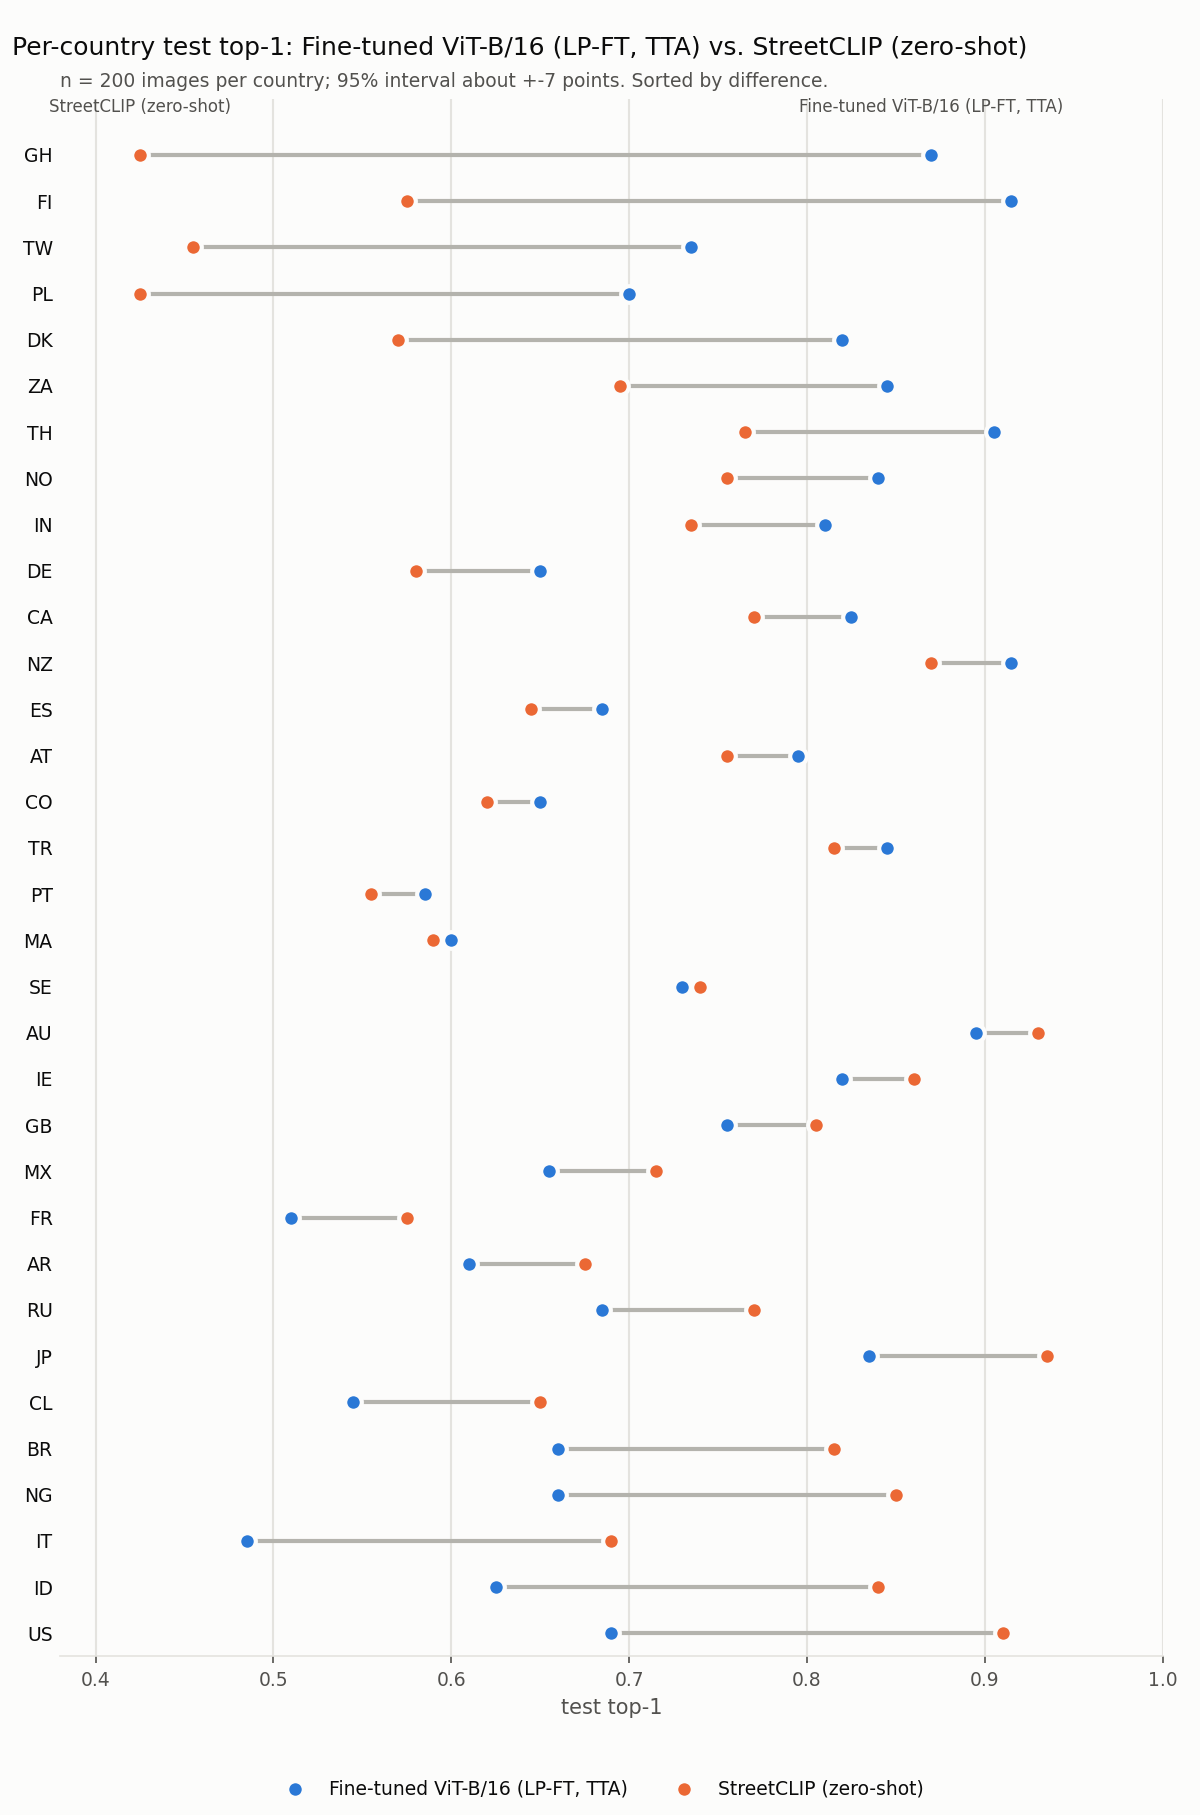
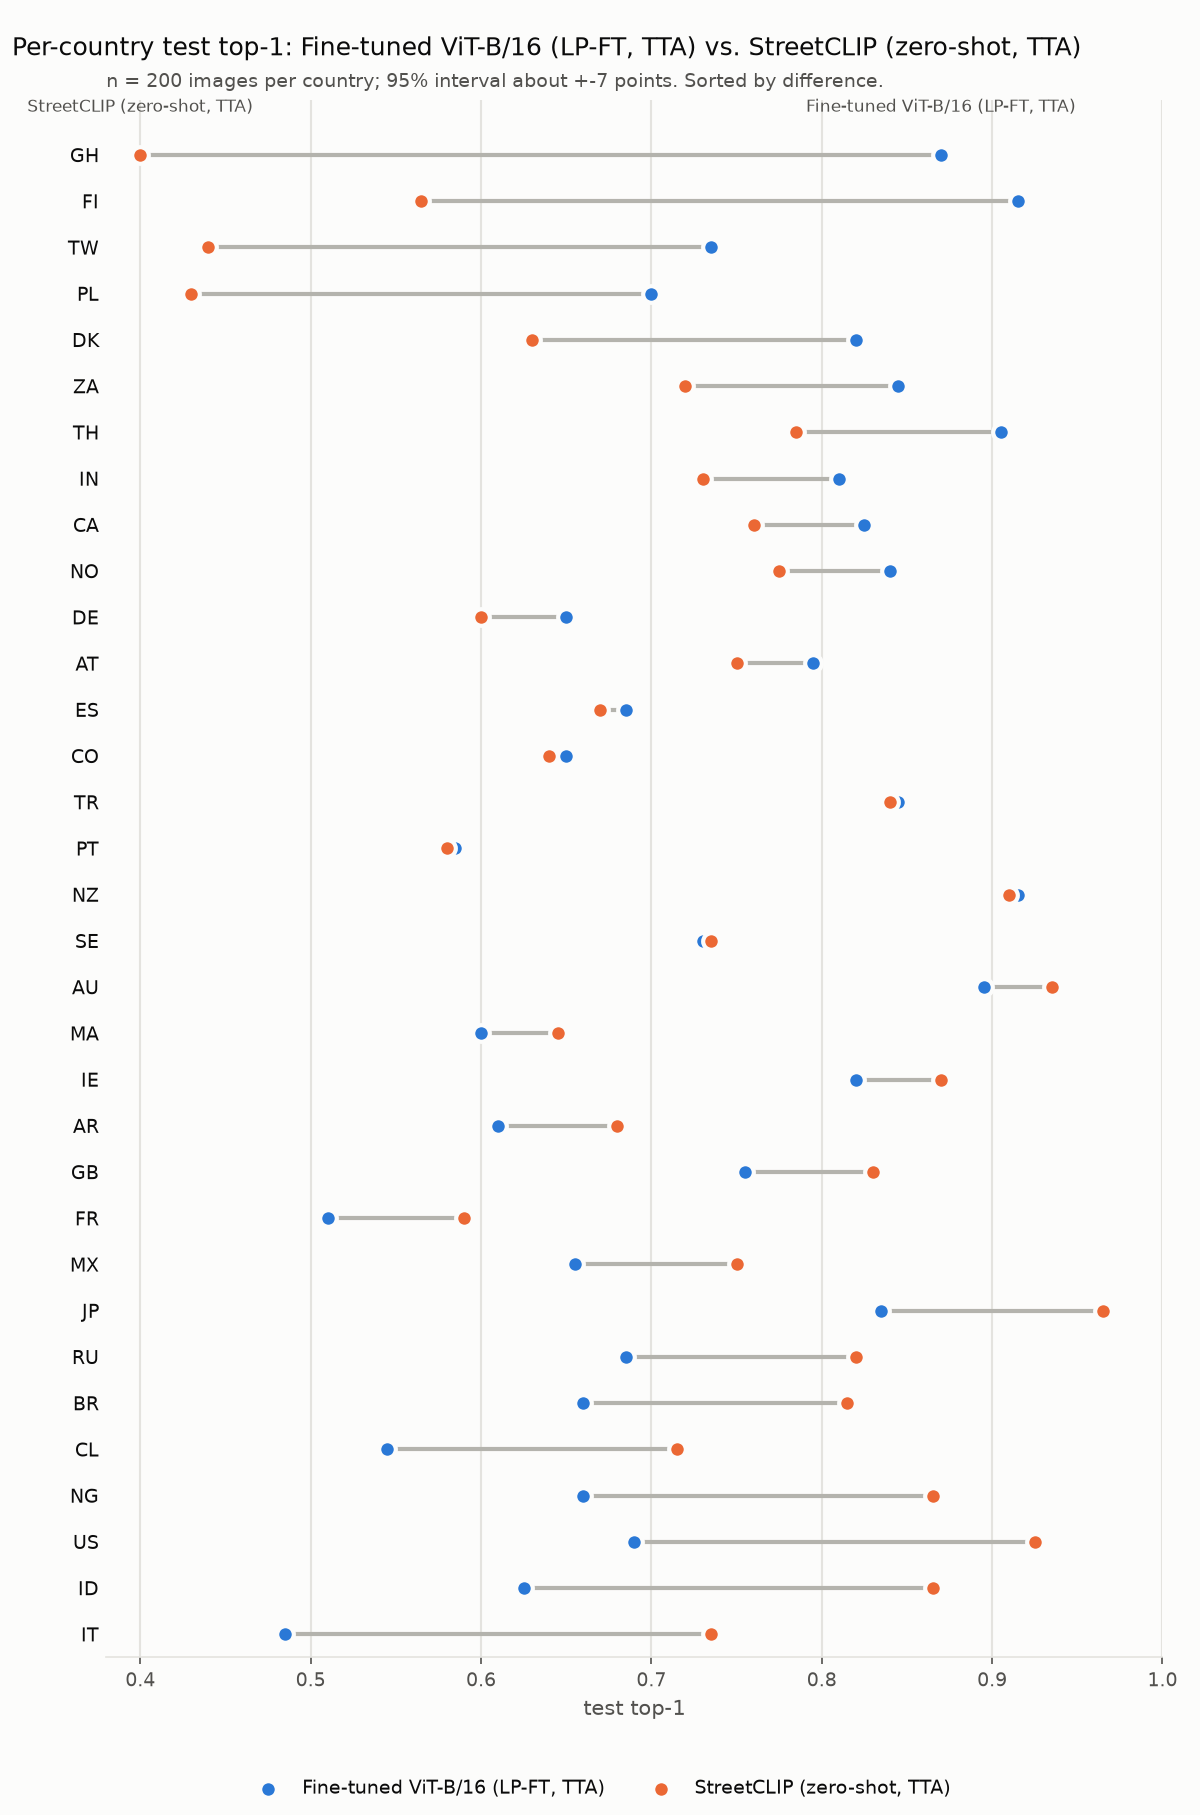
Compare per-country results with TTA on both models; write analysis files with LF

diff --git a/src/geoguessr_ai/analyze.py b/src/geoguessr_ai/analyze.py
@@ -8,6 +8,7 @@ Output under results/analysis/:
   <run>_pairs.csv              directed pairs of interest
   report.md                    readable summary
   per_country_lpft_vs_streetclip.png   dumbbell plot of per-country top-1 for two runs
+                               (default: LP-FT + TTA vs. StreetCLIP zero-shot + TTA)
 
 Usage:
   python -m geoguessr_ai.analyze                       # all runs under results/*/
@@ -46,6 +47,11 @@ def wilson(k: np.ndarray, n: np.ndarray, z: float = 1.96):
         centre = (p + z**2 / (2 * n)) / den
         half = z * np.sqrt(p * (1 - p) / n + z**2 / (4 * n**2)) / den
     return centre - half, centre + half
+
+
+def write_csv(df: pd.DataFrame, path: Path) -> None:
+    """CSV with LF line endings on every OS (pandas defaults to os.linesep, CRLF on Windows)."""
+    df.to_csv(path, index=False, lineterminator="\n")
 
 
 def load_confusion(path: Path) -> pd.DataFrame:
@@ -237,8 +243,8 @@ def analyze_run(path: Path, results: Path, split: str, out: Path, args) -> pd.Da
     pc = per_country(cm, args.attractor_ratio)
     top = confusions(cm).head(args.top)
     pairs = pair_table(cm, PAIR_GROUPS)
-    top.to_csv(out / f"{stem}_top_confusions.csv", index=False)
-    pairs.to_csv(out / f"{stem}_pairs.csv", index=False)
+    write_csv(top, out / f"{stem}_top_confusions.csv")
+    write_csv(pairs, out / f"{stem}_pairs.csv")
     report = build_report(name, pc, top, pairs, args.focus, args.top)
     return pc.assign(run=name), report
 
@@ -254,11 +260,13 @@ def main() -> None:
     ap.add_argument("--focus", nargs="+", default=["FI", "SE"])
     ap.add_argument("--attractor-ratio", type=float, default=1.3,
                     help="threshold on predicted count / true count")
-    ap.add_argument("--plot-runs", nargs=2, default=["clip_vitb16_lpft_tta", "streetclip_zeroshot"],
+    # both runs with the same 3-crop TTA, so the per-country comparison is like for like
+    ap.add_argument("--plot-runs", nargs=2,
+                    default=["clip_vitb16_lpft_tta", "streetclip_zeroshot_tta"],
                     metavar=("A", "B"),
                     help="two run directories (under --results) for the dumbbell plot")
     ap.add_argument("--plot-labels", nargs=2,
-                    default=["Fine-tuned ViT-B/16 (LP-FT, TTA)", "StreetCLIP (zero-shot)"])
+                    default=["Fine-tuned ViT-B/16 (LP-FT, TTA)", "StreetCLIP (zero-shot, TTA)"])
     ap.add_argument("--plot-name", default="per_country_lpft_vs_streetclip.png")
     args = ap.parse_args()
 
@@ -273,8 +281,8 @@ def main() -> None:
         pc, rep = analyze_run(r, args.results, args.split, out, args)
         frames.append(pc)
         reports.append(rep)
-    pd.concat(frames, ignore_index=True).to_csv(out / "precision_recall.csv", index=False)
-    (out / "report.md").write_text("\n".join(reports), encoding="utf-8")
+    write_csv(pd.concat(frames, ignore_index=True), out / "precision_recall.csv")
+    (out / "report.md").write_text("\n".join(reports), encoding="utf-8", newline="\n")
     csvs = [args.results / r / f"{args.split}_per_country.csv" for r in args.plot_runs]
     if all(c.exists() for c in csvs):
         plot_dumbbell(*(pd.read_csv(c) for c in csvs), *args.plot_labels, args.split,

diff --git a/tests/test_analyze.py b/tests/test_analyze.py
@@ -85,3 +85,35 @@ def test_main_writes_dumbbell_only_when_both_runs_exist(tmp_path, monkeypatch):
     _per_country_csv(results / "runB" / "test_per_country.csv", {"A": 0.7, "B": 0.5, "C": 0.9})
     a.main()
     assert (results / "analysis" / "per_country_lpft_vs_streetclip.png").exists()
+
+
+def test_default_plot_compares_both_tta_runs(tmp_path, monkeypatch):
+    """Without --plot-runs the plot is LP-FT + TTA vs. StreetCLIP + TTA (like for like)."""
+    results = tmp_path / "results"
+    png = results / "analysis" / "per_country_lpft_vs_streetclip.png"
+    for run in ("clip_vitb16_lpft_tta", "streetclip_zeroshot", "streetclip_zeroshot_tta"):
+        (results / run).mkdir(parents=True)
+        _cm().to_csv(results / run / "test_confusion.csv")
+    _per_country_csv(results / "clip_vitb16_lpft_tta" / "test_per_country.csv", {"A": 0.8, "B": 0.4})
+    _per_country_csv(results / "streetclip_zeroshot" / "test_per_country.csv", {"A": 0.7, "B": 0.5})
+    monkeypatch.setattr("sys.argv", ["analyze", "--results", str(results)])
+    a.main()
+    assert not png.exists()  # the no-TTA StreetCLIP run alone is not used
+    _per_country_csv(results / "streetclip_zeroshot_tta" / "test_per_country.csv", {"A": 0.6, "B": 0.5})
+    a.main()
+    assert png.exists()
+
+
+def test_text_outputs_use_lf_line_endings(tmp_path, monkeypatch):
+    """Same bytes on every OS (on Windows pandas/write_text would otherwise write CRLF)."""
+    results = tmp_path / "results"
+    (results / "runA").mkdir(parents=True)
+    _cm().to_csv(results / "runA" / "test_confusion.csv")
+    monkeypatch.setattr("sys.argv", ["analyze", "--results", str(results)])
+    a.main()
+    files = [p for p in (results / "analysis").iterdir() if p.suffix in {".csv", ".md"}]
+    assert {p.name for p in files} >= {"report.md", "precision_recall.csv", "runA_pairs.csv",
+                                       "runA_top_confusions.csv"}
+    for p in files:
+        data = p.read_bytes()
+        assert b"\n" in data and b"\r" not in data, p.name

diff --git a/README.md b/README.md
@@ -9,9 +9,12 @@ comparing zero-shot CLIP, a linear probe and full fine-tuning (LP-FT).
 Main result: CLIP ViT-B/16 with LP-FT reaches 0.708 top-1 on the test split with a single center crop,
 24.0 points above the zero-shot accuracy of the same backbone, and on par with StreetCLIP zero-shot
 (0.708; ViT-L/14, 336 px). Test-time augmentation (TTA, average over 3 crops) was adopted because it
-improved the val split (0.787 to 0.808); with it the model reaches 0.732 top-1 on the test split, 2.4 points
-above StreetCLIP zero-shot. That comparison is not fully fair, because StreetCLIP was evaluated without
-TTA, and StreetCLIP stays ahead on top-5 (0.958 vs. 0.935).
+improved the val split (0.787 to 0.808). With the same TTA on both models, LP-FT reaches 0.732 test top-1
+and StreetCLIP 0.726: a 0.6-point difference, inside the noise (the 95% interval of each test top-1 is
+about +-1.1 points), so the two are on par in top-1. StreetCLIP is ahead on top-5 (0.963 vs. 0.935).
+
+- **Live demo (runs in your browser):** https://huggingface.co/spaces/Daggerabuse/geoguessr-ai
+- **Model:** https://huggingface.co/Daggerabuse/geoguessr-clip-vitb16
 
 ## Why
 
@@ -27,6 +30,7 @@ is about 0.03 top-1. All numbers are read from `results/*/{test,val}_metrics.jso
 | CLIP ViT-B/16, zero-shot | 0.468 | 0.830 | 0.485 |
 | CLIP ViT-L/14, zero-shot | 0.544 | 0.903 | 0.598 |
 | StreetCLIP, zero-shot (ViT-L/14, 336 px) | 0.708 | 0.958 | 0.723 |
+| StreetCLIP, zero-shot + TTA (3 crops) | 0.726 | 0.963 | 0.752 |
 | CLIP ViT-B/16, linear probe | 0.600 | 0.900 | 0.708 |
 | CLIP ViT-B/16, LP-FT (fine-tuned) | 0.708 | 0.925 | 0.787 |
 | CLIP ViT-B/16, LP-FT + TTA (3 crops) | 0.732 | 0.935 | 0.808 |
@@ -37,9 +41,10 @@ treated as on par.
 
 TTA (average over the left, center and right crops) was chosen based on the val split: for the same
 checkpoint, evaluated with `--eval-only --tta` and no retraining, val top-1 went from 0.787 to 0.808.
-On test, top-1 is 0.732 with TTA versus 0.708 without. The TTA model is 2.4 points ahead of StreetCLIP
-zero-shot in test top-1 but behind it in top-5 (0.935 vs. 0.958). StreetCLIP was not evaluated with TTA,
-so this comparison is not fully fair.
+On test, top-1 is 0.732 with TTA versus 0.708 without. StreetCLIP was evaluated with the same 3-crop
+TTA (logits averaged): test top-1 goes from 0.708 to 0.726. With TTA on both sides, LP-FT is 0.6 points
+ahead in test top-1, while the 95% (Wilson) interval of each test top-1 is about +-1.1 points
+(n = 6600), so the two are treated as on par. In top-5, StreetCLIP is ahead (0.963 vs. 0.935).
 
 ## Findings
 
@@ -53,16 +58,17 @@ so only differences larger than 10 points are discussed below.
   test top-1 is 0.732 with TTA versus 0.708 without. It changes the confusion picture only slightly:
   SE to FI is 20 (19 without TTA), CA to US 7 (7), NG to GH 32 (32),
   US to CA 32 (34); the attractor countries are ES, TR (DK, ES without TTA).
-  The Nordic, Canada/US, unsolved-confusion and attractor counts below are for LP-FT without TTA.
+  The Nordic, Canada/US, unsolved-confusion and attractor counts below are all from runs without TTA
+  (LP-FT and StreetCLIP alike); only the per-country comparison uses TTA on both models.
 - **Nordic confusion.** Swedish images predicted as Finland (SE to FI, out of 200 per country):
   115 for B/16 zero-shot, 38 after the linear probe, 19 after LP-FT
   (119 for L/14 zero-shot, 23 for StreetCLIP). For StreetCLIP the dominant direction is
   the reverse: FI to SE is 64, versus 11 for LP-FT.
 - **Canada vs. United States.** CA to US: 38 for B/16 zero-shot, 14 after the probe,
   7 after LP-FT (150 for L/14 zero-shot, 37 for StreetCLIP).
-- **Per country, LP-FT with TTA vs. StreetCLIP (test top-1, differences > 10 points).**
-  - Fine-tuned model better (7 countries): GH (87.0% vs 42.5%, 44.5 points), FI (91.5% vs 57.5%, 34.0 points), TW (73.5% vs 45.5%, 28.0 points), PL (70.0% vs 42.5%, 27.5 points), DK (82.0% vs 57.0%, 25.0 points), ZA (84.5% vs 69.5%, 15.0 points), TH (90.5% vs 76.5%, 14.0 points).
-  - Fine-tuned model worse (7 countries): US (69.0% vs 91.0%, 22.0 points), ID (62.5% vs 84.0%, 21.5 points), IT (48.5% vs 69.0%, 20.5 points), NG (66.0% vs 85.0%, 19.0 points), BR (66.0% vs 81.5%, 15.5 points), CL (54.5% vs 65.0%, 10.5 points), JP (83.5% vs 93.5%, 10.0 points).
+- **Per country, LP-FT vs. StreetCLIP, both with the same 3-crop TTA (test top-1, differences > 10 points).**
+  - Fine-tuned model better (7 countries): GH (87.0% vs 40.0%, 47.0 points), FI (91.5% vs 56.5%, 35.0 points), TW (73.5% vs 44.0%, 29.5 points), PL (70.0% vs 43.0%, 27.0 points), DK (82.0% vs 63.0%, 19.0 points), ZA (84.5% vs 72.0%, 12.5 points), TH (90.5% vs 78.5%, 12.0 points).
+  - Fine-tuned model worse (8 countries): IT (48.5% vs 73.5%, 25.0 points), ID (62.5% vs 86.5%, 24.0 points), US (69.0% vs 92.5%, 23.5 points), NG (66.0% vs 86.5%, 20.5 points), CL (54.5% vs 71.5%, 17.0 points), BR (66.0% vs 81.5%, 15.5 points), RU (68.5% vs 82.0%, 13.5 points), JP (83.5% vs 96.5%, 13.0 points).
   - All other countries differ by 10 points or less, which is within the noise level here.
 - **Confusions that were not solved, only changed direction.** GH to NG fell from 108 to 6
   while NG to GH is 32 after LP-FT (it was 24 for B/16 zero-shot). US to CA is
@@ -74,10 +80,11 @@ so only differences larger than 10 points are discussed below.
 
 ### Figures
 
-Per-country test top-1 of the fine-tuned ViT-B/16 (LP-FT, with TTA) and StreetCLIP zero-shot, sorted by the
-difference between them. Differences smaller than about 7 points are within the 95% interval.
+Per-country test top-1 of the fine-tuned ViT-B/16 (LP-FT) and StreetCLIP zero-shot, both with the
+same 3-crop TTA, sorted by the difference between them. Differences smaller than about 7 points are
+within the 95% interval.
 
-![Per-country test top-1: LP-FT with TTA vs. StreetCLIP](results/analysis/per_country_lpft_vs_streetclip.png)
+![Per-country test top-1: LP-FT with TTA vs. StreetCLIP zero-shot with TTA](results/analysis/per_country_lpft_vs_streetclip.png)
 
 Test confusion matrices of the same backbone before and after fine-tuning (rows are the true
 country, columns the predicted one, each row normalized):
@@ -89,13 +96,35 @@ country, columns the predicted one, each row normalized):
 
 Left: CLIP ViT-B/16 zero-shot. Right: CLIP ViT-B/16 LP-FT.
 
+## Demo
+
+[Live demo](https://huggingface.co/spaces/Daggerabuse/geoguessr-ai) (a static Hugging Face Space, `web/`).
+The fine-tuned model (vision encoder + head, one graph, 33 logits) is exported to ONNX
+(`export_onnx`) and runs in the browser with onnxruntime-web, so the photo never leaves the device.
+Preprocessing is the same as in evaluation (short side 224 with PIL's bicubic reimplemented in JS,
+left/center/right crops, no flips); a test checks that the JS and Python outputs are identical.
+
+The demo uses 8-bit weights (MatMulNBits, blocks of 32; activations stay fp32), 101 MB instead of
+346 MB. Activation quantization (`quantize_dynamic`) was tried first and dropped: top-1 agreement
+with PyTorch fell to 0.82-0.85 on the 500 images used for choosing the method. Agreement with the
+PyTorch model (3-crop TTA), measured on 2500 other images from `data/sample`
+(`results/onnx_parity/`):
+
+| | fp32 ONNX | 8-bit ONNX |
+|---|---|---|
+| Top-1 agreement, onnxruntime (2500 images) | 1.000 | 0.986 |
+| Max logit difference, onnxruntime | 1e-4 | 0.27 |
+| Top-1 agreement in the browser (Edge, onnxruntime-web) | 1.000 (100 images) | 0.995 (200 images) |
+
+These are agreement numbers, not accuracy. Details: [NOTES_ONNX.md](NOTES_ONNX.md).
+
 ## Limitations
 
 - Single run with a single seed; the variance of training itself is unknown.
 - The 33 countries do not represent the world, and the numbers are not comparable to published
   OSV-5M benchmark results (different country set and metrics).
 - StreetCLIP is a larger model (ViT-L/14) at a higher resolution (336 px) than the fine-tuned ViT-B/16,
-  and it is evaluated zero-shot (and without TTA), while the fine-tuned model was trained on this country set.
+  and it is evaluated zero-shot, while the fine-tuned model was trained on this country set.
 - TTA was selected on the val split, which is optimistic (see below); the test gain is a single measurement.
 - Val is split from the same pool as train (by sequence), so it is optimistic: the val-test gap is
   7.8 points for LP-FT, versus 1.5 for StreetCLIP and 1.6 for B/16 zero-shot. Compare models on test.
@@ -180,12 +209,19 @@ from kaggle_secrets import UserSecretsClient
 os.environ["HF_WRITE_TOKEN"] = UserSecretsClient().get_secret("HF_WRITE_TOKEN")
 ```
 
-### Demo (Hugging Face Space)
+### Demo
 
-`app/` is a Gradio Space (CPU): it loads the exported model from the Hub (`MODEL_REPO`,
-default `Daggerabuse/geoguessr-clip-vitb16`) and shows the top-5 countries with 3-crop TTA.
-Create a Gradio Space and upload the contents of `app/` (`app.py`, `inference.py`,
-`requirements.txt`, `README.md`) to its root.
+```
+# ONNX export (fp32 + 8-bit) of the Hub model, with a parity check against PyTorch
+uv sync --extra ml --extra onnx
+uv run python -m geoguessr_ai.export_onnx --model models/hf_export --out models/onnx \
+    --verify data/sample/images --offset 500 --report results/onnx_parity/report.json
+# serve web/ locally with the local model: http://localhost:8000/web/?base=/model/
+uv run python -m geoguessr_ai.webdemo serve
+```
+
+`app/` (a Gradio version of the demo) is kept but not used: Hugging Face Gradio Spaces require a
+paid plan, so the live demo is the static page in `web/`.
 
 ## Tests
 
@@ -219,14 +255,12 @@ Evaluation: short side 224 + center crop; `--tta` averages left/center/right cro
 ## Future work
 
 - Split val by creator (not only by sequence) to reduce the val-test gap.
-- Evaluate StreetCLIP with TTA, for an equal comparison.
 - Linear probe on StreetCLIP.
 - More images per country.
-- A demo on Hugging Face Spaces.
 
 ## License
 
-- Code: Code: MIT, see [LICENSE](LICENSE).
+- Code: MIT, see [LICENSE](LICENSE).
 - Data: [OpenStreetView-5M](https://huggingface.co/datasets/osv5m/osv5m), **CC BY-SA 4.0**.
   Astruc et al., "OpenStreetView-5M: The Many Roads to Global Visual Geolocation", CVPR 2024.
 - Models: [openai/clip-vit-large-patch14](https://huggingface.co/openai/clip-vit-large-patch14),
